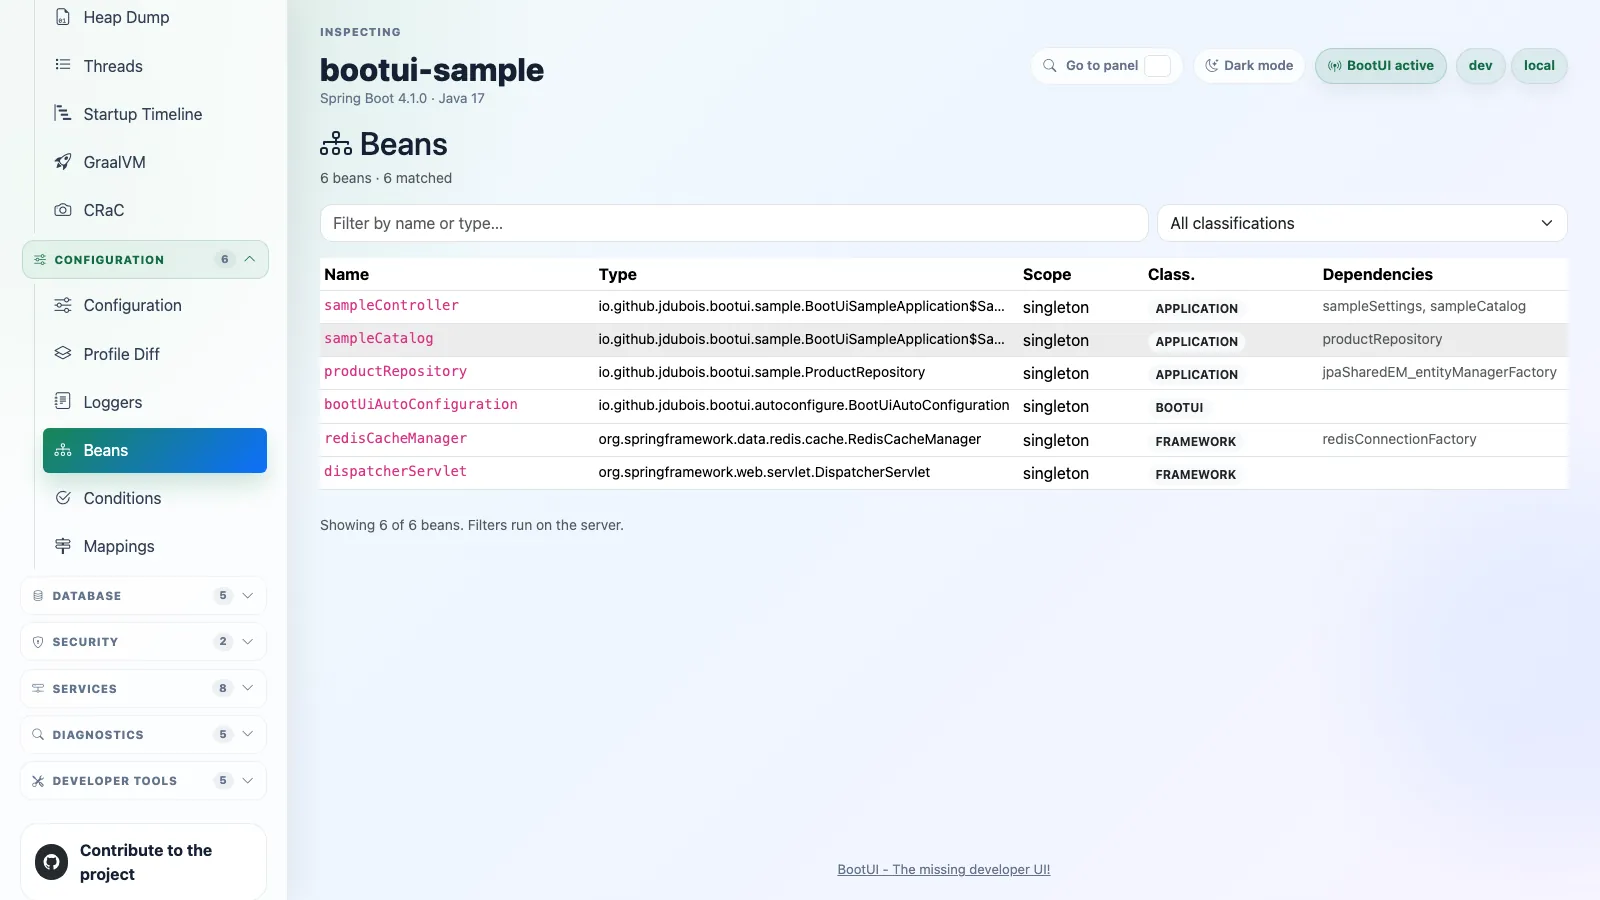
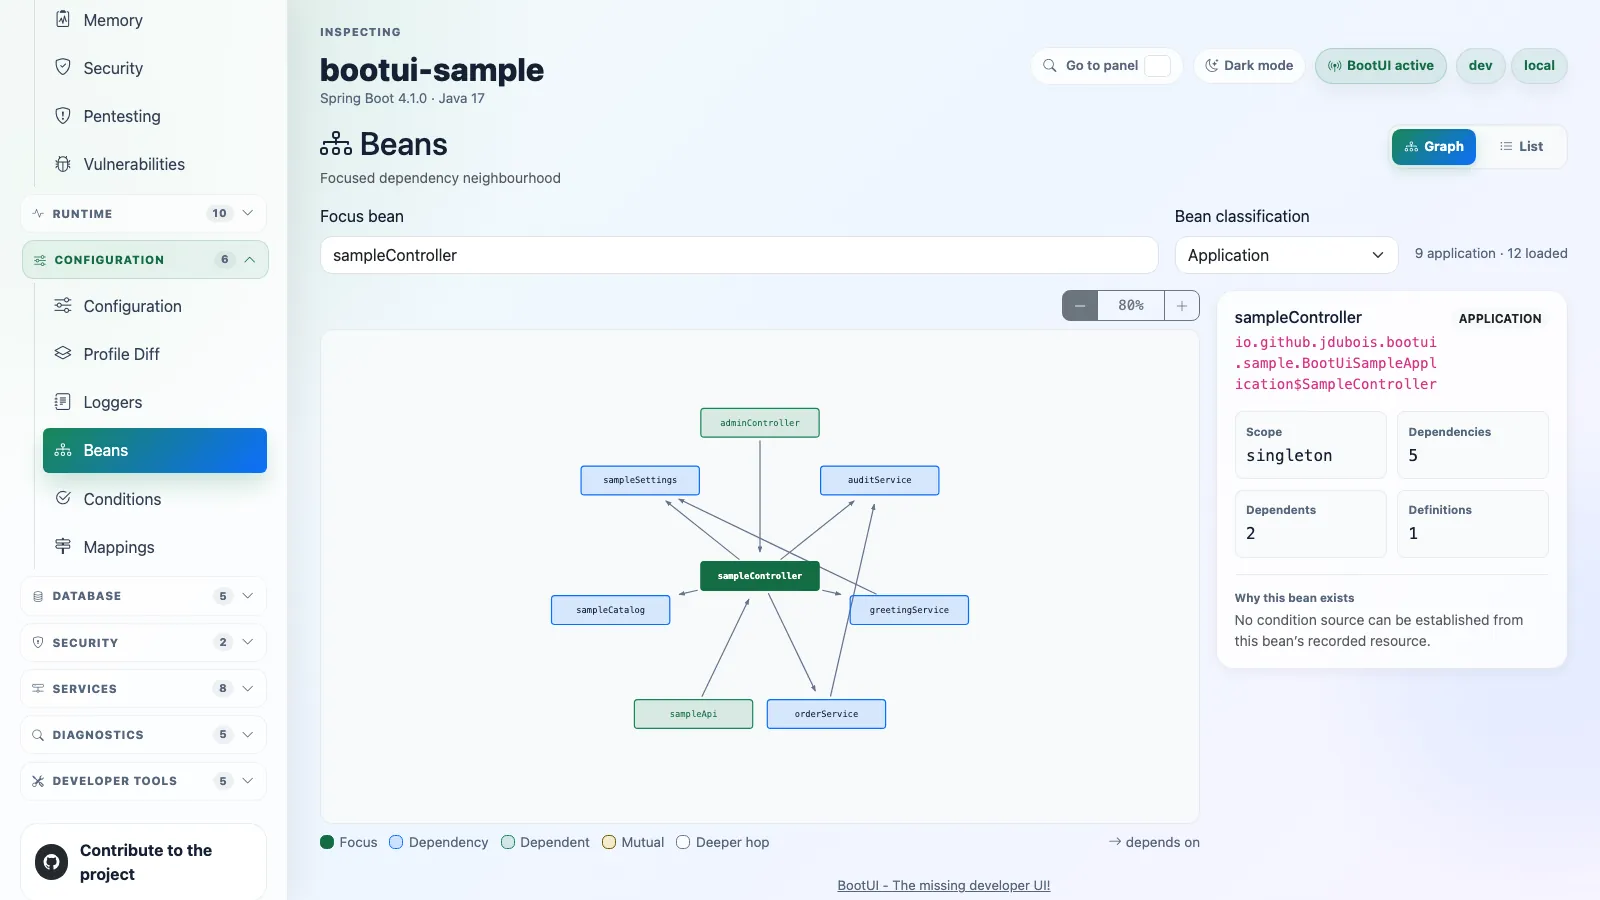
docs: refresh Beans graph screenshot
Copilot-Session: 13e9e8b2-5e1b-45fa-94f6-1a5eec993ff9

diff --git a/bootui-spring-sample-app/e2e/README.md b/bootui-spring-sample-app/e2e/README.md
@@ -24,7 +24,7 @@ flow) exposed by the sample app:
 | `config.spec.js`          | Property search, add an override (`sample.greeting`), confirm + delete it                                                                     |
 | `profile-diff.spec.js`    | Profile sources & properties render with filtering                                                                                            |
 | `loggers.spec.js`         | Logger search, change `io.github.jdubois.bootui.sample` to `WARN`, reset                                                                      |
-| `beans.spec.js`           | Bean list rendering, name filter, classification filter                                                                                       |
+| `beans.spec.js`           | Dependency graph navigation, bean list rendering, name filter, and classification filter                                                      |
 | `conditions.spec.js`      | Positive / negative auto-config tabs, filtering                                                                                               |
 | `mappings.spec.js`        | HTTP mappings include the sample app routes, filter narrows the list                                                                          |
 | `scheduled.spec.js`       | Scheduled tasks view lists the sample echo scheduler                                                                                          |

diff --git a/docs/FEATURES.md b/docs/FEATURES.md
@@ -904,7 +904,8 @@ platform.
 
 ### Beans
 
-The Beans panel helps answer which Spring beans exist and where they came from. It supports server-side search across
+The Beans panel helps answer which application-managed beans exist, how they are connected, and where they came from.
+It supports server-side search across
 bean names and types, plus classifications such as application, Spring framework, Java/Jakarta, and other beans. BootUI's
 own beans are hidden by default, and the empty BootUI classification option is omitted; when self-data filtering is
 disabled they are classified separately as BootUI beans and the option appears. A labeled Graph/List segmented control
